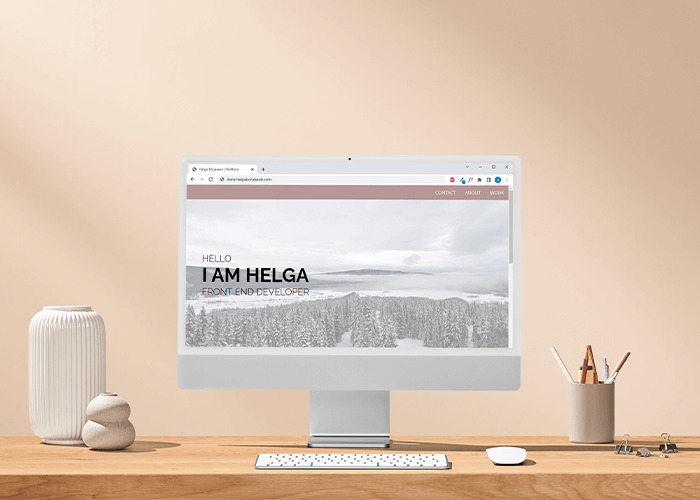
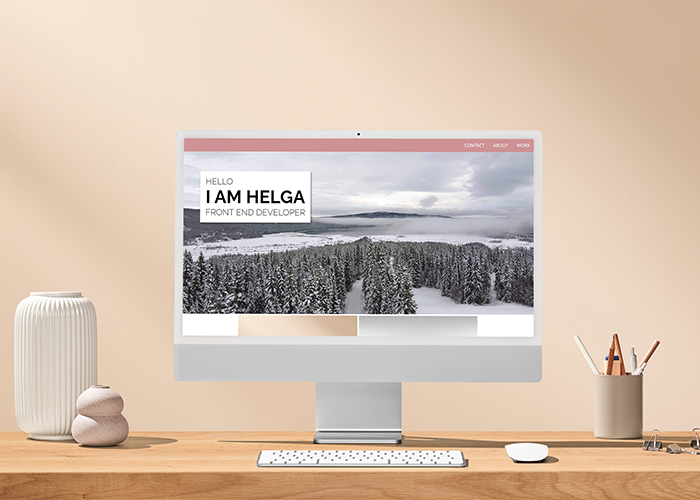
thursday

diff --git a/style.css b/style.css
@@ -1,1 +1,1 @@
-*{box-sizing:border-box;margin:0;padding:0}body{font-family:"Noto Sans",sans-serif}img{width:100%}a{list-style-type:none;color:#fff}.gallery a{text-decoration:none;display:flex;justify-content:center;border-color:rgba(0,0,0,0);background-color:#b25657;color:#fff;padding:10px 50px 10px 50px;margin:10px 30px;font-size:smaller;font-family:"Noto Sans",sans-serif;letter-spacing:.1em;cursor:pointer;filter:drop-shadow(2px 2px 2px rgba(0, 0, 0, 0.4))}.header-container img{width:100%;height:auto;z-index:0;opacity:.2}.header-container{position:relative}.headertext{position:absolute;top:5vh;left:5%}h2{text-transform:uppercase;font-family:"Raleway",sans-serif;font-weight:300;font-size:20px}h2 span{font-size:2.1em;font-weight:700}h3{font-family:"Noto Sans",sans-serif;text-align:center}.fa-burger{color:#fff}.gallery{display:flex;flex-wrap:wrap;gap:5px;padding-bottom:5px}img{flex:25%}.hover-container{position:relative;width:100%}#gallery-image-padding-1{padding-top:5px}#gallery-image-padding-2{padding-top:5px}.image{opacity:1;display:block;width:100%;height:auto;transition:.5s ease;backface-visibility:hidden}.hover-img{transition:.5s ease;opacity:0;position:absolute;top:50%;left:50%;transform:translate(-50%, -50%);text-align:center}.hover-container:hover .image{opacity:.05}.hover-container:hover .hover-img{opacity:1}.hover-text{color:#000;font-size:16px;padding-bottom:16px;font-family:"Noto Sans",sans-serif;width:250px}.about{background-color:#f3eed2;padding:15px;text-align:center}.about-img{width:100%;height:auto;padding:0px 20px 20px 20px;max-width:220px;flex:25%;filter:drop-shadow(2px 2px 2px rgba(0, 0, 0, 0.4))}.about-text{flex:25%}.about-container{background-color:#f3eed2;padding-top:20px}.skills{text-align:center;padding:15px;background-color:#f3eed2;padding-bottom:30px}.skills img{height:60px;width:auto;margin-right:10px;padding-top:5px}.skills .fa-brands{font-size:4em;margin-right:10px}footer{text-align:center;background-color:#000;color:#fff;padding:15px}footer .fa-brands{margin-right:20px;margin-top:20px;font-size:3em}ul{list-style-type:none}li{display:inline}.copy{text-align:center;padding:10px;font-size:smaller}.nav{overflow:hidden;justify-content:space-between;background:rgba(116,75,75,.6);z-index:999;margin:0 auto;width:100%;position:static}.nav a{float:right;display:block;color:#f2f2f2;text-align:center;padding:14px 16px;text-decoration:none;font-size:17px}.nav a:hover{background-color:#885959;color:#fff;font-weight:700}.nav a.active{color:#fff}.nav .icon{display:none}@media screen and (max-width: 600px){.nav a{display:none}.nav a.icon{float:right;display:block}}@media screen and (max-width: 600px){.nav.responsive .icon{position:absolute;right:0;top:0}.nav.responsive a{float:none;display:block;text-align:center}}@media screen and (min-width: 480px){.headertext{top:7vh}.headertext h2{font-size:1.5em}}@media screen and (min-width: 600px){.gallery{display:flex;flex-wrap:nowrap}.about{display:flex;text-align:left;justify-content:center;align-items:center}.about-text{max-width:300px;padding-left:15px}.headertext{top:15vh}.headertext h2{font-size:2em}}@media screen and (min-width: 900px){.gallery{max-width:900px}.work{display:flex;justify-content:center}}
+*{box-sizing:border-box;margin:0;padding:0}body{font-family:"Noto Sans",sans-serif}img{width:100%}a{list-style-type:none;color:#fff}.header-container img{width:100%;height:auto;z-index:0}.header-container{position:relative}.headertext{position:absolute;top:2.5vh;left:5%;background-color:#fff;padding:20px;filter:drop-shadow(3px 3px 3px rgba(0, 0, 0, 0.4))}h1{text-transform:uppercase;font-family:"Raleway",sans-serif;font-weight:300;font-size:20px}h1 span{font-size:2.1em;font-weight:700}h3{font-family:"Noto Sans",sans-serif;text-align:center}.fa-burger{color:#fff}.gallery{display:flex;flex-wrap:wrap;gap:5px;padding-bottom:5px}img{flex:25%}.hover-container{position:relative;width:100%}#gallery-image-padding-1,#gallery-image-padding-2{padding-top:5px}.image{opacity:1;display:block;width:100%;height:auto;transition:.5s ease;backface-visibility:hidden}.hover-img{transition:.5s ease;opacity:0;position:absolute;top:50%;left:50%;transform:translate(-50%, -50%);text-align:center}.hover-container:hover .image{opacity:.05}.hover-container:hover .hover-img{opacity:1}.hover-text{color:#000;font-size:16px;padding-bottom:16px;font-family:"Noto Sans",sans-serif;width:250px}.gallery a{text-decoration:none;display:flex;justify-content:center;border-color:rgba(0,0,0,0);background-color:#b25657;color:#fff;padding:10px 50px 10px 50px;margin:10px 20px;font-size:smaller;font-family:"Noto Sans",sans-serif;letter-spacing:.1em;cursor:pointer;filter:drop-shadow(2px 2px 2px rgba(0, 0, 0, 0.4))}.about{background-color:#eddea4;padding:15px;text-align:center}.about-img{width:100%;height:auto;padding:0px 20px 20px 20px;max-width:220px;flex:25%;filter:drop-shadow(2px 2px 2px rgba(0, 0, 0, 0.4))}.about-text{flex:25%}.about-container{background-color:#eddea4;padding-top:20px}.skills{text-align:center;padding:15px;background-color:#eddea4;padding-bottom:30px}.skills img{height:60px;width:auto;margin-right:10px;padding-top:5px}.skills .fa-brands{font-size:4em;margin-right:10px}footer{text-align:center;background-color:#000;color:#fff;padding:15px}footer .fa-brands{margin-right:20px;margin-top:20px;font-size:2em}ul{list-style-type:none}li{display:inline}.copy{text-align:center;padding:10px;font-size:smaller}.nav{overflow:hidden;justify-content:space-between;background:#cc8f91;z-index:999;margin:0 auto;width:100%;position:static}.nav a{float:right;display:block;color:#f2f2f2;text-align:center;padding:14px 16px;text-decoration:none;font-size:17px;font-weight:400}.nav a:hover{background-color:#b25657;color:#fff;font-weight:700}.nav a.active{color:#fff}.nav .icon{display:none}@media screen and (max-width: 670px){.nav a{display:none}.nav a.icon{float:right;display:block}.nav.responsive .icon{position:absolute;right:0;top:0}.nav.responsive a{float:none;display:block;text-align:center;font-weight:400}}@media screen and (min-width: 480px){.headertext{top:7vh;background-color:#fff;padding:20px}.headertext h1{font-size:1.5em}}@media screen and (min-width: 600px){.gallery{display:flex;flex-wrap:nowrap}}@media screen and (min-width: 700px){.about{display:flex;text-align:left;justify-content:center;align-items:center}.about-text{max-width:300px;padding-left:15px}.headertext{top:12vh;background-color:#fff;padding:20px}.headertext h1{font-size:2em}}@media screen and (min-width: 900px){.gallery{max-width:900px}.work{display:flex;justify-content:center}}

diff --git a/index.html b/index.html
@@ -6,7 +6,7 @@
   <link rel="preconnect" href="https://fonts.googleapis.com">
   <link rel="preconnect" href="https://fonts.gstatic.com" crossorigin>
   <link
-    href="https://fonts.googleapis.com/css2?family=Lobster&family=Noto+Sans:wght@300;700&family=Raleway:wght@300;700&display=swap"
+    href="https://fonts.googleapis.com/css2?family=Lobster&family=Noto+Sans:wght@300;400;700&family=Raleway:wght@300;700&display=swap"
     rel="stylesheet">
 
   <script src="https://kit.fontawesome.com/6ff8ae7524.js" crossorigin="anonymous"></script>
@@ -34,12 +34,12 @@
   <header class="header-container">
     <img src="Images/header.png" alt="header-image">
     <div class="headertext">
-      <h2>Hello
+      <h1>Hello
         <br>
         <span>I am Helga</span>
         <br>
         Front End Developer
-      </h2>
+      </h1>
     </div>
   </header>
 
@@ -50,28 +50,30 @@
 
         <div class="gallery-1">
           <div class="hover-container">
-            <img src="Images/portfolio-700x500.png" alt="portfolio" class="image">
+            <img src="Images/portfolio-700x500.png" alt="Mockup of portfolio site" class="image">
             <div class="hover-img">
               <div class="hover-text">
                 <h3>HTML & CSS</h3>
                 <p>Individual school assignment on the education Front End Developer</p>
               </div>
-              <a href="https://github.com/helgaborje/portfolio" target="_blank" class="button">Visit
+              <a href="https://github.com/helgaborje/portfolio" title="Link to portfolio page on Github" target="_blank"
+                class="button">Visit
                 GitHub</a>
             </div>
           </div>
 
           <div class="hover-container" id="gallery-image-padding-1">
-            <img src="Images/barbershop-700x500.png" alt="barbershop" class="image">
+            <img src="Images/barbershop-700x500.png" alt="Mockup of Barbershop site" class="image">
             <div class="hover-img">
               <div class="hover-text">
                 <h3>HTML & CSS</h3>
                 <p>Individual school assignment on the education Front End Developer</p>
               </div>
-              <a href="https://melodious-paletas-005bc8.netlify.app/" target="_blank" class="button">Visit
+              <a href="https://melodious-paletas-005bc8.netlify.app/" title="Link to Barbershop fake homepage"
+                target="_blank" class="button">Visit
                 site</a>
-              <!-- <br> -->
-              <a href="https://github.com/helgaborje/barbershop.github.io" target="_blank" class="button">Visit
+              <a href="https://github.com/helgaborje/barbershop.github.io" title="Link to Barbershop page on Github"
+                target="_blank" class="button">Visit
                 GitHub</a>
             </div>
           </div>
@@ -79,25 +81,27 @@
 
         <div class="gallery-2">
           <div class="hover-container">
-            <img src="Images/ammarnas-700x500.png" alt="ammarnas" class="image">
+            <img src="Images/ammarnas-700x500.png" alt="Mockup of Ammarnas site" class="image">
             <div class="hover-img">
               <div class="hover-text">
-                <h3>Webdesign</h3>
+                <h3>Web Design</h3>
                 <p>Individual school assignment on the education Digital Content Designer</p>
               </div>
-              <a href="https://helgaborjesson.wixsite.com/portfolio/ammarnaes" target="_blank" class="button">Visit
+              <a href="https://helgaborjesson.wixsite.com/portfolio/ammarnaes" title="Link to external portfolio site"
+                target="_blank" class="button">Visit
                 project</a>
             </div>
           </div>
 
           <div class="hover-container" id="gallery-image-padding-2">
-            <img src="Images/thomas-cook-700x500.png" alt="thomas-cook" class="image">
+            <img src="Images/thomas-cook-700x500.png" alt="Mockup of work from Thomas Cook" class="image">
             <div class="hover-img">
               <div class="hover-text">
                 <h3>Graphic Design</h3>
                 <p>A selection of work from my time as a graphic designer at Thomas Cook/Ving</p>
               </div>
-              <a href="https://helgaborjesson.wixsite.com/portfolio/thomascook" target="_blank" class="button">Visit
+              <a href="https://helgaborjesson.wixsite.com/portfolio/thomascook" title="Link to external portfolio site"
+                target="_blank" class="button">Visit
                 project</a>
             </div>
           </div>
@@ -108,7 +112,6 @@
 
     <!-- About -->
     <div class="about-container">
-      <!-- <h3>ABOUT</h3> -->
     </div>
     <div class="about" id="about">
       <img src="Images/profilbild.png" alt="helga" class="about-img">
@@ -133,21 +136,22 @@
       <img src="icons/photoshop.png" alt="">
       <img src="icons/premiere-pro.png" alt="">
     </div>
-
-    <!-- Contact -->
-    <footer class=" contact" id="contact">
-      <h3>CONTACT</h3>
-      <ul>
-        <li><a href="https://www.linkedin.com/in/helga-b%C3%B6rjesson-8342a8128/" target="_blank">
-            <i class="fa-brands fa-linkedin"></i></a></li>
-        <li><a href="https://github.com/helgaborje" target="_blank">
-            <i class="fa-brands fa-github"></i></a></li>
-        <li><a href="mailto:helgaborjesson@gmail.com" target="_blank">
-            <i class="fa-solid fa-envelope fa-3x"></i></a></li>
-      </ul>
-    </footer>
-    <div class="copy">© 2022 Helga Börjesson</div>
   </main>
+
+  <!-- Contact -->
+  <footer class=" contact" id="contact">
+    <h3>CONTACT</h3>
+    <ul>
+      <li><a href="https://www.linkedin.com/in/helga-b%C3%B6rjesson-8342a8128/" target="_blank">
+          <i class="fa-brands fa-linkedin"></i></a></li>
+      <li><a href="https://github.com/helgaborje" target="_blank">
+          <i class="fa-brands fa-github"></i></a></li>
+      <li><a href="mailto:helgaborjesson@gmail.com" target="_blank">
+          <i class="fa-solid fa-envelope fa-2x"></i></a></li>
+    </ul>
+  </footer>
+  <div class="copy">© 2022 Helga Börjesson</div>
+
 
   <!-- Script -->
   <script>

diff --git a/SCSS/style.scss b/SCSS/style.scss
@@ -18,28 +18,11 @@ a {
     color: white;
 }
 
- .gallery a {
-    text-decoration: none;
-    display: flex;
-    justify-content: center;
-    border-color: transparent;
-    background-color: #b25657;
-    color: white;
-    padding: 10px 50px 10px 50px;
-    margin: 10px 30px;
-    font-size: smaller;
-    font-family: $font;
-    letter-spacing: 0.1em;
-    cursor: pointer;
-    filter: drop-shadow(2px 2px 2px rgba(0, 0, 0, 0.4));
-}
-
 /* Header */
 .header-container img {
     width: 100%;
     height: auto;
     z-index: 0;
-    opacity: 0.2;
 }
 
 .header-container {
@@ -48,18 +31,22 @@ a {
 
 .headertext {
     position: absolute;
-    top: 5vh;
+    top: 2.5vh;
     left: 5%;
+    background-color: white;
+    padding: 20px;
+    filter: drop-shadow(3px 3px 3px rgba(0, 0, 0, 0.4));
+
 }
 
-h2 {
+h1 {
     text-transform: uppercase;
     font-family: 'Raleway', sans-serif;
     font-weight: 300;
     font-size: 20px;
 }
 
-h2 span {
+h1 span {
     font-size: 2.1em;
     font-weight: 700;
 }
@@ -90,13 +77,10 @@ img {
     width: 100%;
 }
 
-#gallery-image-padding-1 {
+#gallery-image-padding-1, #gallery-image-padding-2 {
     padding-top: 5px;
 }
 
-#gallery-image-padding-2 {
-    padding-top: 5px;
-}
 
 .image {
     opacity: 1;
@@ -133,9 +117,26 @@ img {
     width: 250px;
 }
 
-/*About */
+ /* Button */
+ .gallery a {
+    text-decoration: none;
+    display: flex;
+    justify-content: center;
+    border-color: transparent;
+    background-color: $button-color;
+    color: white;
+    padding: 10px 50px 10px 50px;
+    margin: 10px 20px;
+    font-size: smaller;
+    font-family: $font;
+    letter-spacing: 0.1em;
+    cursor: pointer;
+    filter: drop-shadow(2px 2px 2px rgba(0, 0, 0, 0.4));
+}
+
+/* About */
 .about {
-    background-color: #F3EED2;
+    background-color: #EDDEA4;
     padding: 15px;
     text-align: center;
 }
@@ -154,7 +155,7 @@ img {
 }
 
 .about-container {
-    background-color: #F3EED2;
+    background-color: #EDDEA4;
     padding-top: 20px;
 }
 
@@ -162,7 +163,7 @@ img {
 .skills {
     text-align: center;
     padding: 15px;
-    background-color: #F3EED2;
+    background-color: #EDDEA4;
     padding-bottom: 30px;
 }
 
@@ -189,7 +190,7 @@ footer {
 footer .fa-brands {
     margin-right: 20px;
     margin-top: 20px;
-    font-size: 3em;
+    font-size: 2em;
 }
 
 
@@ -212,7 +213,7 @@ li {
 .nav {
     overflow: hidden;
     justify-content: space-between;
-    background: rgba(116, 75, 75, 0.6);
+    background: #CC8F91;
     z-index: 999;
     margin: 0 auto;
     width: 100%;
@@ -227,10 +228,12 @@ li {
     padding: 14px 16px;
     text-decoration: none;
     font-size: 17px;
+    font-weight: 400;
+
 }
 
 .nav a:hover {
-    background-color: #885959;
+    background-color: #b25657;
     color: white;
     font-weight: 700;
 }
@@ -244,7 +247,7 @@ li {
 }
 
 /* Navbar mobile */
-@media screen and (max-width: 600px) {
+@media screen and (max-width: 670px) {
 
     .nav a {
         display: none;
@@ -254,9 +257,6 @@ li {
         float: right;
         display: block;
     }
-}
-
-@media screen and (max-width: 600px) {
     .nav.responsive .icon {
         position: absolute;
         right: 0;
@@ -267,16 +267,19 @@ li {
         float: none;
         display: block;
         text-align: center;
+        font-weight: 400;
     }
 }
 
-/* Desktop */
+/* Responsive layout */
 @media screen and (min-width: 480px) {
     .headertext {
         top: 7vh;
+        background-color: white;
+        padding: 20px;
     }
 
-    .headertext h2 {
+    .headertext h1 {
         font-size: 1.5em;
     }
 }
@@ -286,7 +289,9 @@ li {
         display: flex;
         flex-wrap: nowrap;  
     }
+}
 
+@media screen and (min-width: 700px) {
     .about {
         display: flex;
         text-align: left;
@@ -300,10 +305,12 @@ li {
     }
 
     .headertext {
-        top: 15vh;
+        top: 12vh;
+        background-color: white;
+        padding: 20px;
     }
 
-    .headertext h2 {
+    .headertext h1 {
         font-size: 2em;
     }
 }

diff --git a/SCSS/_config.scss b/SCSS/_config.scss
@@ -1,2 +1,2 @@
 $font: 'Noto Sans', sans-serif;
-$button-color: #712a9d;
+$button-color: #b25657;
